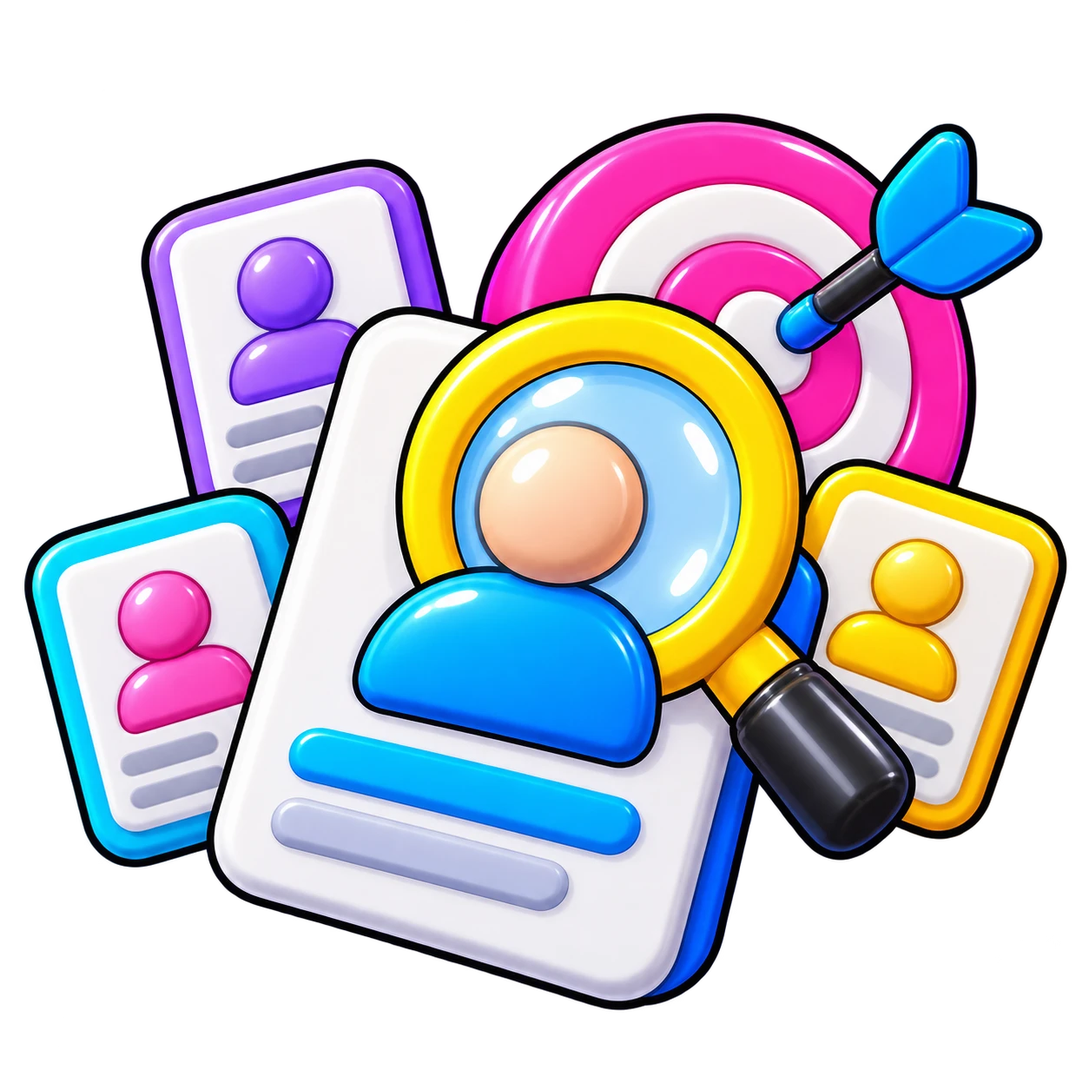
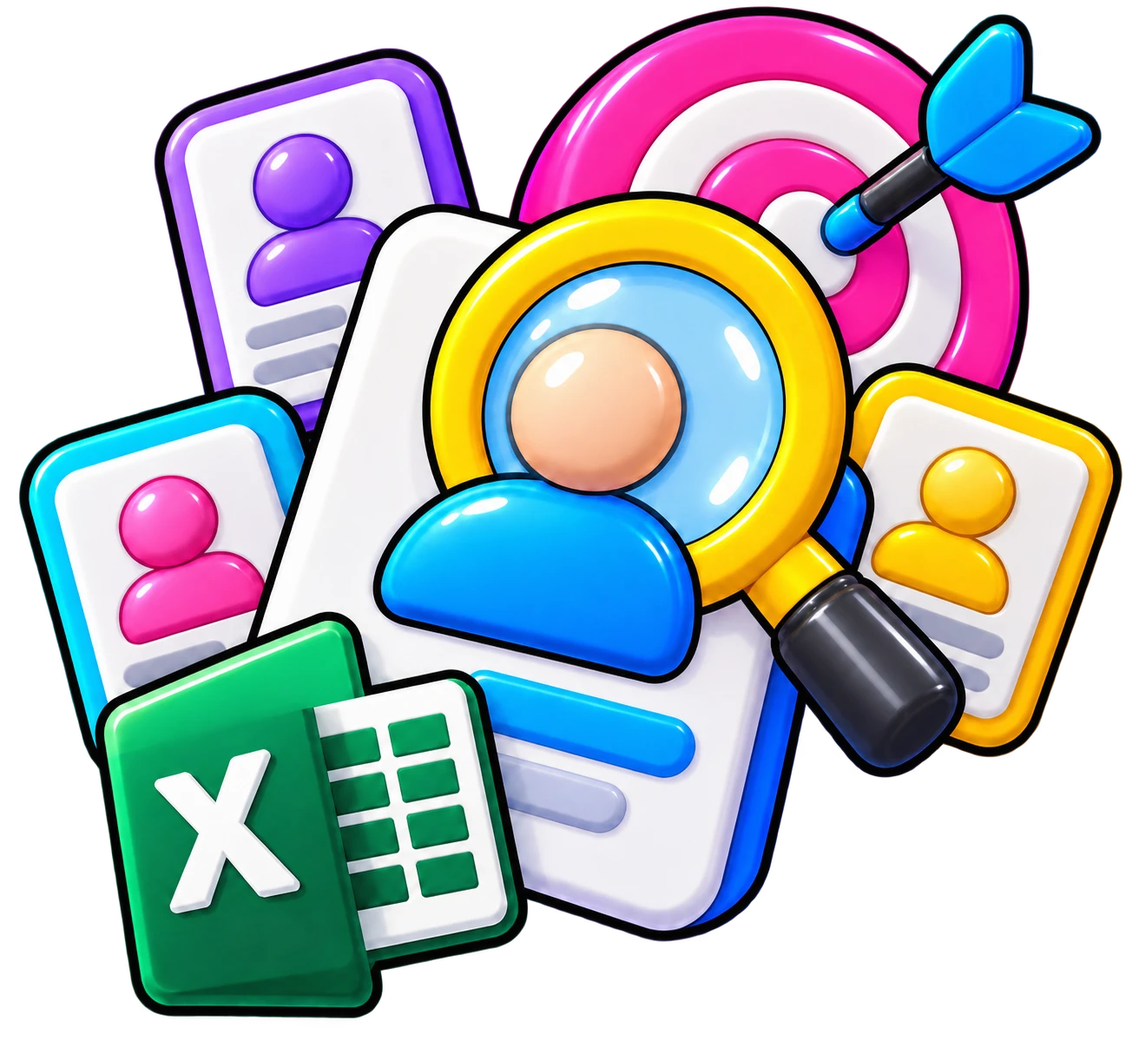
UI: multiple updates across site
- index.html: reduce services to 2 (Architecture + Outbound), update section copy, change What Clients Say pill to purple
- about.html: add hero collage photo, mobile nav CSS
- contact.html: change cyan elements to green (pill, button, progress)
- downloads.html + icp-worksheet.html: rename ICP Worksheet to Customer Finder Worksheet, replace key visual
- gtm-type-test.html: redesign landing screen (eyebrow pill, bullet chips, dimension preview card), update sub copy, remove tier pills, fix CTA font color, change Likert colors to brand pink/green, simplify results panel, add top padding to results screen

diff --git a/gtm-type-test.html b/gtm-type-test.html
@@ -106,42 +106,47 @@ body::before {
 .prog-fill { height: 100%; border-radius: 999px; background: var(--yellow); border-right: 2px solid rgba(0,0,0,.2); transition: width .45s cubic-bezier(.4,0,.2,1); }
 
 /* ── SCREEN 1: Landing ── */
-#s1 { max-width: 1080px; }
-.landing { padding-top: 90px; display: grid; grid-template-columns: 1fr 1fr; gap: 48px; align-items: center; text-align: left; max-width: 1080px; margin: 0 auto; }
-.landing-copy { display: flex; flex-direction: column; align-items: flex-start; gap: 24px; }
+#s1 { max-width: 1140px; }
+.landing { padding-top: 72px; display: grid; grid-template-columns: 1fr 1fr; gap: 56px; align-items: center; text-align: left; max-width: 1140px; margin: 0 auto; }
+.landing-copy { display: flex; flex-direction: column; align-items: flex-start; gap: 22px; }
 .landing-visual { display: flex; align-items: center; justify-content: center; }
-.landing-visual img { width: 100%; max-width: 480px; }
-@media(max-width: 760px) { .landing { grid-template-columns: 1fr; text-align: center; } .landing-copy { align-items: center; } .landing-visual { display: none; } }
+.landing-vis-wrap { position: relative; width: 100%; max-width: 500px; }
+.landing-vis-wrap img { width: 100%; display: block; }
+.dim-preview { background: #fff; border: 3px solid var(--black); border-radius: 16px; box-shadow: 5px 5px 0 var(--black); padding: 16px 18px; margin-top: -24px; position: relative; z-index: 2; }
+.dim-preview-label { font: 700 10px/1 'Archivo',sans-serif; letter-spacing: .1em; text-transform: uppercase; color: #6b7280; margin-bottom: 10px; }
+.dim-preview-chips { display: flex; flex-wrap: wrap; gap: 6px; }
+.dim-chip { display: inline-flex; align-items: center; gap: 6px; padding: 6px 12px; border: 2px solid var(--black); border-radius: 999px; font: 700 11px/1 'Archivo',sans-serif; box-shadow: 2px 2px 0 var(--black); white-space: nowrap; }
+.dim-chip-dot { width: 7px; height: 7px; border-radius: 50%; border: 1.5px solid rgba(0,0,0,.2); flex-shrink: 0; }
+@media(max-width: 760px) { .landing { grid-template-columns: 1fr; padding-top: 40px; text-align: center; gap: 36px; } .landing-copy { align-items: center; } .landing-visual { display: none; } }
 
 /* Landing headline */
+.landing-eyebrow { display: inline-flex; align-items: center; gap: 7px; background: var(--pink); color: #fff; border: 2.5px solid var(--black); border-radius: 999px; padding: 8px 18px; font: 700 11px/1 'Archivo',sans-serif; letter-spacing: .09em; text-transform: uppercase; box-shadow: 4px 4px 0 var(--black); }
+.landing-eyebrow-star { font-style: normal; font-size: 13px; }
 .landing-headline {
   font-family: 'Archivo Black', sans-serif;
   font-weight: 900;
-  font-size: clamp(36px, 5vw, 64px);
+  font-size: clamp(36px, 5vw, 62px);
   color: #fff;
   line-height: 1.0;
   letter-spacing: -.035em;
 }
 
-.landing-sub { font: 400 18px/1.6 'Archivo',sans-serif; color: rgba(255,255,255,.9); max-width: 500px; }
-.landing-sub strong { color: #fff; font-weight: 700; }
+.landing-sub { font: 400 17px/1.65 'Archivo',sans-serif; color: #fff; max-width: 490px; }
+.landing-bullets { list-style: none; display: flex; flex-direction: column; align-items: flex-start; gap: 8px; margin: 0; padding: 0; }
+.landing-bullets li { display: inline-flex; align-items: center; gap: 12px; background: rgba(255,255,255,.13); border: 1.5px solid rgba(255,255,255,.3); border-radius: 12px; padding: 12px 16px; font: 600 14px/1.4 'Archivo',sans-serif; color: #fff; }
+.landing-bullets li .b-ico { width: 24px; height: 24px; border-radius: 7px; background: var(--yellow); border: 2px solid var(--black); display: inline-flex; align-items: center; justify-content: center; font-size: 13px; flex-shrink: 0; box-shadow: 2px 2px 0 var(--black); }
 
-/* Level pills con color */
-.level-teaser { display: flex; gap: 10px; flex-wrap: wrap; justify-content: center; }
-.level-pill { display: flex; align-items: center; gap: 8px; padding: 10px 18px; border: 1.5px solid rgba(0,0,0,.35); border-radius: 999px; font: 700 14px/1 'Archivo',sans-serif; color: var(--black); }
-.level-dot { width: 10px; height: 10px; border-radius: 50%; border: 1.5px solid rgba(0,0,0,.2); flex-shrink: 0; }
-
-.btn-cta { background: var(--pink); color: var(--black); font: 700 19px/1 'Archivo',sans-serif; border: 2.5px solid var(--black); border-radius: 12px; box-shadow: 4px 4px 0 var(--black); padding: 20px 44px; cursor: pointer; transition: transform .12s, box-shadow .12s; -webkit-tap-highlight-color: transparent; display: inline-flex; align-items: center; gap: 8px; }
-.btn-cta:hover { transform: translate(-2px,-2px); box-shadow: 6px 6px 0 var(--black); }
+.btn-cta { background: var(--pink); color: var(--white); font: 800 18px/1 'Archivo Black',sans-serif; border: 2.5px solid var(--black); border-radius: 14px; box-shadow: 5px 5px 0 var(--black); padding: 20px 48px; cursor: pointer; transition: transform .12s, box-shadow .12s; -webkit-tap-highlight-color: transparent; display: inline-flex; align-items: center; gap: 10px; letter-spacing: -.01em; }
+.btn-cta:hover { transform: translate(-2px,-2px); box-shadow: 7px 7px 0 var(--black); }
 .btn-cta:active { transform: translate(2px,2px); box-shadow: 2px 2px 0 var(--black); }
 
-/* Trust signals as white pills — legibles, on-brand */
-.landing-meta { display: flex; flex-wrap: wrap; justify-content: center; gap: 10px; }
+/* Trust signals — white cards */
+.landing-meta { display: flex; flex-wrap: wrap; gap: 8px; }
 .landing-meta-item {
-  display: inline-flex; align-items: center; gap: 6px;
-  background: rgba(255,255,255,.15); border: 1px solid rgba(255,255,255,.4);
-  border-radius: 999px;
-  padding: 10px 18px; font: 700 14px/1 'Archivo',sans-serif; color: #fff;
+  display: inline-flex; align-items: center; gap: 7px;
+  background: var(--white); border: 2px solid var(--black);
+  border-radius: 999px; box-shadow: 3px 3px 0 var(--black);
+  padding: 9px 16px; font: 700 13px/1 'Archivo',sans-serif; color: var(--black);
 }
 
 /* ── SCREENS 2–6 ── */
@@ -189,7 +194,7 @@ body::before {
 
 .likert-extremes { display: flex; justify-content: space-between; padding: 2px 2px 0; }
 .likert-extremes span { font: 700 12px/1 'Archivo',sans-serif; letter-spacing: .02em; }
-.likert-extremes span:first-child { color: #ef4444; }
+.likert-extremes span:first-child { color: #FB4AAD; }
 .likert-extremes span:last-child  { color: #00CC7A; }
 
 /* Opción N/A */
@@ -235,7 +240,7 @@ body::before {
 .contact-note { font: 400 11px/1.4 'Archivo',sans-serif; color: #9ca3af; margin-top: 12px; text-align: center; }
 
 /* ── SCREEN 8: Results ── */
-#s8 { max-width: 960px; }
+#s8 { max-width: 960px; padding-top: 48px; }
 .results-headline {
   font-family: 'Archivo Black', sans-serif;
   font-weight: 900;
@@ -271,7 +276,8 @@ body::before {
 .locked-list { list-style: none; display: flex; flex-direction: column; gap: 8px; margin-bottom: 20px; }
 .locked-list li { display: flex; align-items: center; gap: 9px; font: 400 13px/1.4 'Archivo',sans-serif; padding: 9px 11px; background: rgba(255,255,255,.06); border-radius: 8px; transition: background .3s; color: rgba(255,255,255,.7); }
 .locked-list li.unlocked { background: rgba(0,204,122,.1); color: rgba(255,255,255,.9); }
-.report-sent-box { background: rgba(0,204,122,.12); border: 1.5px solid #00CC7A; border-radius: 10px; padding: 12px; margin-bottom: 14px; font: 400 12px/1.5 'Archivo',sans-serif; color: #00CC7A; display: none; }
+.report-sent-box { background: rgba(0,204,122,.12); border: 1.5px solid #00CC7A; border-radius: 10px; padding: 16px; margin-bottom: 18px; font: 400 14px/1.6 'Archivo',sans-serif; color: #00CC7A; display: none; }
+.report-sent-box strong { color: #fff; font-weight: 700; }
 .btn-calendly { display: flex; align-items: center; justify-content: center; gap: 8px; width: 100%; padding: 16px 18px; background: var(--yellow); color: var(--black); font: 700 14px/1.3 'Archivo',sans-serif; border: 2.5px solid rgba(255,255,255,.15); border-radius: 10px; box-shadow: 3px 3px 0 rgba(255,255,255,.12); text-decoration: none; cursor: pointer; transition: transform .12s, box-shadow .12s; -webkit-tap-highlight-color: transparent; text-align: center; }
 .btn-calendly:hover { transform: translate(-1px,-1px); box-shadow: 4px 4px 0 rgba(255,255,255,.2); }
 
@@ -328,23 +334,36 @@ body::before {
 <div id="s1" class="screen is-active">
   <div class="landing">
     <div class="landing-copy">
+      <span class="landing-eyebrow"><em class="landing-eyebrow-star">✦</em> Revenue Tech Maturity Test</span>
       <h1 class="landing-headline">How modern is your GTM tech stack?</h1>
-      <p class="landing-sub">Find gaps in your GTM stack that might be hurting your revenue by taking this test.</p>
-      <div class="level-teaser">
-        <div class="level-pill" style="background:#e5e7eb"><span class="level-dot" style="background:#9ca3af"></span>GTM Rookie</div>
-        <div class="level-pill" style="background:#12EFFB"><span class="level-dot" style="background:#0aa8b5"></span>GTM Player</div>
-        <div class="level-pill" style="background:#00CC7A"><span class="level-dot" style="background:#009959"></span>GTM Pro</div>
-        <div class="level-pill" style="background:#FCDF07"><span class="level-dot" style="background:#d4b800"></span>GTM Elite</div>
-      </div>
+      <p class="landing-sub">This isn't a quiz about what tools you use. It's a diagnostic that measures how well your revenue architecture, outbound, analytics, automation, and team alignment actually work together.</p>
+      <ul class="landing-bullets">
+        <li><span class="b-ico">📊</span>A score per dimension</li>
+        <li><span class="b-ico">🎯</span>Your 3 highest-leverage gaps</li>
+        <li><span class="b-ico">📬</span>A prioritized action plan sent to your inbox</li>
+      </ul>
       <button type="button" class="btn-cta" id="startBtn">Take the Test →</button>
       <div class="landing-meta">
         <span class="landing-meta-item">⏱ 4 minutes</span>
         <span class="landing-meta-item">🔒 No spam</span>
         <span class="landing-meta-item">✉ Results by email</span>
+        <span class="landing-meta-item">🆓 Free</span>
       </div>
     </div>
     <div class="landing-visual">
-      <img src="images/gtm-type-test-hero.webp" alt="GTM Tech Stack Assessment">
+      <div class="landing-vis-wrap">
+        <img src="images/gtm-type-test-hero.webp" alt="GTM Tech Stack Assessment">
+        <div class="dim-preview">
+          <p class="dim-preview-label">5 dimensions scored</p>
+          <div class="dim-preview-chips">
+            <span class="dim-chip" style="background:#FB4AAD;color:#000"><span class="dim-chip-dot" style="background:#c4006a"></span>Revenue Architecture</span>
+            <span class="dim-chip" style="background:#12EFFB;color:#000"><span class="dim-chip-dot" style="background:#0aa8b5"></span>Modern Outbound</span>
+            <span class="dim-chip" style="background:#FCDF07;color:#000"><span class="dim-chip-dot" style="background:#d4b800"></span>Digital Analytics</span>
+            <span class="dim-chip" style="background:#A040F0;color:#fff"><span class="dim-chip-dot" style="background:#6010b8;border-color:rgba(255,255,255,.3)"></span>AI &amp; Automation</span>
+            <span class="dim-chip" style="background:#00CC7A;color:#000"><span class="dim-chip-dot" style="background:#008f56"></span>GTM Alignment</span>
+          </div>
+        </div>
+      </div>
     </div>
   </div>
 </div>
@@ -439,14 +458,7 @@ body::before {
       </div>
     </div>
     <div class="locked-panel">
-      <p class="locked-heading">Your Full GTM Report</p>
-      <ul class="locked-list" id="lockedList">
-        <li>🔒 Your 3 biggest GTM gaps</li>
-        <li>🔒 What they're likely costing you</li>
-        <li>🔒 Downloadable PDF report</li>
-        <li>🔒 Priority recommendations</li>
-      </ul>
-      <div id="reportSent" class="report-sent-box"></div>
+      <div id="reportSent" class="report-sent-box" style="display:none"></div>
       <a href="https://calendly.com/YOUR_LINK" target="_blank" rel="noopener" class="btn-calendly" id="calendlyBtn">📅 Book a free 30-min GTM call</a>
     </div>
   </div>
@@ -516,8 +528,8 @@ body::before {
   ];
 
   var LIKERT_LABELS  = ["SD", "D", "A", "SA"];
-  /* Escala de colores: rojo → naranja → verde claro → verde */
-  var LIKERT_COLORS  = ["#ef4444", "#f97316", "#86efac", "#00CC7A"];
+  /* Escala de colores: pink fuerte → pink claro → verde claro → verde */
+  var LIKERT_COLORS  = ["#FB4AAD", "#FCA8D8", "#6DEAB5", "#00CC7A"];
 
   var LEVEL_INFO = {
     "GTM Rookie": { emoji: "🌱", color: "#e5e7eb", desc: "Your GTM tech stack is still at an early stage. Most of what works depends on specific people doing the right thing at the right time. Without systems in place, you’re likely losing pipeline without knowing it — and scaling right now would amplify the chaos, not the results. The first move: build the foundation before you build the machine." },
@@ -706,17 +718,35 @@ body::before {
     goTo(8);
 
     var sorted = result.dimensions.slice().sort(function (a, b) { return a.raw - b.raw; });
+    var answersDetail = [];
+    DIMS.forEach(function (dim, di) {
+      dim.qs.forEach(function (q, qi) {
+        var val = answers[di * 5 + qi];
+        answersDetail.push({
+          dimension: dim.name,
+          question_index: di * 5 + qi + 1,
+          question: q,
+          answer_value: val,
+          answer_label: val === 1 ? "Strongly Disagree" : val === 2 ? "Disagree" : val === 3 ? "Agree" : val === 4 ? "Strongly Agree" : "N/A"
+        });
+      });
+    });
     fetch("YOUR_N8N_WEBHOOK_URL", {
       method: "POST", headers: { "Content-Type": "application/json" },
       body: JSON.stringify({
         name: name, email: email, company: company, role: role,
         timestamp: new Date().toISOString(), source: "gtm-type-test",
         overall_level: result.overall, total_score: result.total,
-        dimensions: result.dimensions,
-        top_gaps: sorted.slice(0, 3).map(function (g) {
-          return { dimension: g.dimension, level: g.level, gap_text: GAP_TEXTS[g.dimension] || "" };
+        dimensions: result.dimensions.map(function (d) {
+          return {
+            dimension: d.dimension, raw: d.raw, pct: d.pct, level: d.level,
+            label: (DIM_LABELS[d.dimension] || {})[d.level] || ""
+          };
         }),
-        answers: answers
+        top_gaps: sorted.slice(0, 3).map(function (g) {
+          return { dimension: g.dimension, level: g.level, pct: g.pct, gap_text: GAP_TEXTS[g.dimension] || "" };
+        }),
+        answers_detail: answersDetail
       })
     }).catch(function () {});
   });
@@ -749,14 +779,9 @@ body::before {
       });
     }, 150);
 
-    var items = ["Your 3 biggest GTM gaps", "What they’re likely costing you", "Downloadable PDF report", "Priority recommendations"];
-    document.getElementById("lockedList").innerHTML = items.map(function (t, i) {
-      return '<li class="unlocked" style="transition-delay:' + (i * 120) + 'ms">✅ ' + t + '</li>';
-    }).join("");
-
     var sent = document.getElementById("reportSent");
     sent.style.display = "block";
-    sent.textContent = "Your full report is on its way to " + email + ".";
+    sent.innerHTML = "✅ Your results are on their way to <strong>" + esc(email) + "</strong>. Check your inbox in the next few minutes.";
 
     document.getElementById("calendlyBtn").textContent = "📅 " + (CALENDLY_COPY[result.overall] || "Book a free 30-min GTM call");
   }

diff --git a/index.html b/index.html
@@ -429,7 +429,7 @@ height="0" width="0" style="display:none;visibility:hidden"></iframe></noscript>
 <div class="testi-section" data-grid-parallax>
   <div class="reveal">
     <div class="section-head">
-      <span class="eyebrow-pill" style="background:var(--nx-cyan);margin-bottom:28px">
+      <span class="eyebrow-pill" style="background:var(--nx-purple);color:#fff;margin-bottom:28px">
         <svg width="11" height="11" viewBox="0 0 24 24" fill="currentColor" aria-hidden="true"><path d="M12 2l2.2 6.8L21 11l-6.8 2.2L12 20l-2.2-6.8L3 11l6.8-2.2z"/></svg><span data-i18n="testi_eyebrow">WHAT CLIENTS SAY</span>
       </span>
       <h2 data-i18n="testi_h2">Teams that fixed their GTM system with us.</h2>
@@ -444,8 +444,8 @@ height="0" width="0" style="display:none;visibility:hidden"></iframe></noscript>
       <span class="eyebrow-pill" style="background:var(--nx-purple);margin-bottom:18px">
         <svg width="11" height="11" viewBox="0 0 24 24" fill="currentColor" aria-hidden="true"><path d="M12 2l2.2 6.8L21 11l-6.8 2.2L12 20l-2.2-6.8L3 11l6.8-2.2z"/></svg><span data-i18n="services_eyebrow">PICK YOUR BIGGEST PROBLEM</span>
       </span>
-      <h2 data-i18n="services_h2">Five ways we fix your revenue system.</h2>
-      <p data-i18n="services_p">Each program has three tiers depending on how deep you want to go. Not sure where to start? GTM Total Glowap is the answer.</p>
+      <h2 data-i18n="services_h2">Two ways we fix your revenue system.</h2>
+      <p data-i18n="services_p">Each program has three tiers depending on how deep you want to go.</p>
     </div>
     <div class="services-grid" id="servicesGrid"></div>
   </div>
@@ -576,8 +576,8 @@ const COPY = {
     testi_coming_p: "Muvap is taking on its first engagements right now. Want to be the first case study featured here?",
     testi_coming_cta: 'Work with us',
     services_eyebrow: 'PICK YOUR BIGGEST PROBLEM',
-    services_h2: 'Five ways we fix your revenue system.',
-    services_p: "Each program has three tiers depending on how deep you want to go. Not sure where to start? GTM Total Glowap is the answer.",
+    services_h2: 'Two ways we fix your revenue system.',
+    services_p: "Each program has three tiers depending on how deep you want to go.",
     services_explore: 'Explore program →',
     cta_eyebrow: 'BOOK A CALL',
     cta_h2: "Ready to stop losing deals to a broken process?",
@@ -641,8 +641,8 @@ const COPY = {
     testi_coming_p: 'Muvap está tomando sus primeros proyectos ahora mismo. ¿Quieres ser el primer caso de estudio destacado aquí?',
     testi_coming_cta: 'Trabajemos juntos',
     services_eyebrow: 'ELIGE TU PROBLEMA MÁS GRANDE',
-    services_h2: 'Cinco formas de arreglar tu sistema de revenue.',
-    services_p: 'Cada programa tiene tres niveles según qué tan profundo quieras ir. ¿No sabes por dónde empezar? GTM Total Glowap es la respuesta.',
+    services_h2: 'Dos formas de arreglar tu sistema de revenue.',
+    services_p: 'Cada programa tiene tres niveles según qué tan profundo quieras ir.',
     services_explore: 'Explorar programa →',
     cta_eyebrow: 'AGENDAR LLAMADA',
     cta_h2: '¿Listo para dejar de perder deals por un proceso roto?',
@@ -735,9 +735,6 @@ const PROCESS_TONES = [
 const SERVICES = [
   { name: 'GTM Architecture Evolution', tag: 'Program 1', color: 'var(--nx-ink)', pale: 'var(--nx-paper-dim)', text: 'var(--nx-paper)', href: 'gtm-architecture-evolution.html' },
   { name: 'GTM Outbound Evolution', tag: 'Program 2', color: 'var(--nx-mint)', pale: 'var(--nx-mint-pale)', href: 'gtm-outbound-evolution.html' },
-  { name: 'GTM Intelligence Evolution', tag: 'Program 3', color: 'var(--nx-purple)', pale: 'var(--nx-purple-pale)', href: 'gtm-intelligence-evolution.html' },
-  { name: 'GTM Workforce Evolution', tag: 'Program 4', color: 'var(--nx-yellow)', pale: 'var(--nx-yellow-pale)', href: 'gtm-workforce-evolution.html' },
-  { name: 'GTM Total Glowap!', tag: 'Program 5', color: 'var(--nx-pink)', pale: 'var(--nx-pink-pale)', href: 'gtm-total-glowap.html' },
 ];
 
 const MARTECH_CATEGORIES = MARTECH_TOOLS; // alias kept for compat

diff --git a/contact.html b/contact.html
@@ -148,7 +148,7 @@ j=d.createElement(s),dl=l!='dataLayer'?'&l='+l:'';j.async=true;j.src=
   .form-card{background:var(--nx-paper);border:1.5px solid var(--nx-ink);border-radius:var(--nx-radius-xl);box-shadow:var(--nx-drop-lg);padding:32px;min-height:380px;display:flex;flex-direction:column}
   .form-dots{display:flex;gap:8px;margin-bottom:26px}
   .form-dot{flex:1;height:5px;border-radius:3px;background:var(--nx-paper-dim);transition:background .25s ease}
-  .form-dot.is-done{background:var(--nx-cyan)}
+  .form-dot.is-done{background:var(--nx-green)}
   .form-step{flex:1;display:none}
   .form-step.is-active{display:block}
   .form-step-label{display:block;margin:0 0 18px;font:800 12px/1 var(--nx-font-display);letter-spacing:var(--nx-track-label);color:var(--nx-ink-soft);text-transform:uppercase}
@@ -161,7 +161,7 @@ j=d.createElement(s),dl=l!='dataLayer'?'&l='+l:'';j.async=true;j.src=
   .form-nav{display:flex;align-items:center;justify-content:space-between;margin-top:8px}
   .form-back{width:44px;height:44px;display:inline-flex;align-items:center;justify-content:center;background:var(--nx-paper);border:3px solid var(--nx-ink);border-radius:14px;visibility:hidden}
   .form-back.show{visibility:visible}
-  .form-next{background:var(--nx-cyan);color:var(--nx-ink);border-radius:var(--nx-radius-sm);padding:13px 26px;font:800 14px/1 var(--nx-font-display);box-shadow:var(--nx-drop-sm)}
+  .form-next{background:var(--nx-green);color:var(--nx-ink);border-radius:var(--nx-radius-sm);padding:13px 26px;font:800 14px/1 var(--nx-font-display);box-shadow:var(--nx-drop-sm)}
   .form-done{display:none;flex:1;flex-direction:column;align-items:flex-start;justify-content:center;gap:10px}
   .form-done.show{display:flex}
   .form-done h3{margin:0;color:var(--nx-ink);font:900 24px/1.1 var(--nx-font-display)}
@@ -245,7 +245,7 @@ height="0" width="0" style="display:none;visibility:hidden"></iframe></noscript>
   <script>(function(){var b=document.querySelector(".nav-burger"),n=document.querySelector(".site-nav");if(!b||!n)return;function close(){n.classList.remove("nav-open");b.setAttribute("aria-expanded","false");b.textContent="☰"}b.addEventListener("click",function(e){e.stopPropagation();var open=n.classList.toggle("nav-open");b.setAttribute("aria-expanded",open?"true":"false");b.textContent=open?"✕":"☰"});document.addEventListener("click",function(e){if(!n.contains(e.target))close()})})();</script>
 
   <div class="contact-hero">
-    <span class="eyebrow-pill" style="background:var(--nx-cyan)">
+    <span class="eyebrow-pill" style="background:var(--nx-green)">
       <svg width="11" height="11" viewBox="0 0 24 24" fill="currentColor" aria-hidden="true"><path d="M12 2l2.2 6.8L21 11l-6.8 2.2L12 20l-2.2-6.8L3 11l6.8-2.2z"/></svg><span data-i18n="contact_eyebrow">CONTACT</span>
     </span>
     <h1 data-i18n="contact_h1">Let's talk about your GTM system.</h1>
@@ -262,7 +262,7 @@ height="0" width="0" style="display:none;visibility:hidden"></iframe></noscript>
         <span class="steps-label" data-i18n="steps_label">What happens next</span>
         <div class="next-steps">
           <div class="next-step"><span class="next-step-num" style="background:var(--nx-mint)">1</span><span data-i18n="step_1">We read what you send: no forwarding to a generic inbox.</span></div>
-          <div class="next-step"><span class="next-step-num" style="background:var(--nx-cyan)">2</span><span data-i18n="step_2">You get a reply within one business day, with a real answer or a next step.</span></div>
+          <div class="next-step"><span class="next-step-num" style="background:var(--nx-green)">2</span><span data-i18n="step_2">You get a reply within one business day, with a real answer or a next step.</span></div>
           <div class="next-step"><span class="next-step-num" style="background:var(--nx-pink)">3</span><span data-i18n="step_3">If it's a fit, we book a 30-minute call. If it's not, we'll tell you that too.</span></div>
         </div>
       </div>

diff --git a/icp-worksheet.html b/icp-worksheet.html
@@ -4,11 +4,11 @@
 <meta charset="UTF-8">
 <script>(function(w,d,s,l,i){w[l]=w[l]||[];w[l].push({'gtm.start':new Date().getTime(),event:'gtm.js'});var f=d.getElementsByTagName(s)[0],j=d.createElement(s),dl=l!='dataLayer'?'&l='+l:'';j.async=true;j.src='https://www.googletagmanager.com/gtm.js?id='+i+dl;f.parentNode.insertBefore(j,f)})(window,document,'script','dataLayer','GTM-5GWJM2P9');</script>
 <meta name="viewport" content="width=device-width, initial-scale=1.0">
-<title>ICP Worksheet · Free Excel Download · Muvap</title>
-<meta name="description" content="27 pre-built CRM fields. Auto-generated ICP statement. Free Excel download for B2B revenue teams that are tired of qualifying on gut feeling.">
+<title>Customer Finder Worksheet · Free Excel Download · Muvap</title>
+<meta name="description" content="27 pre-built CRM fields. Auto-generated customer profile statement. Free Excel download for B2B revenue teams that are tired of qualifying on gut feeling.">
 <link rel="canonical" href="https://davidbervic.com/icp-worksheet.html">
 <meta property="og:type" content="website">
-<meta property="og:title" content="ICP Worksheet · Free Excel Download · Muvap">
+<meta property="og:title" content="Customer Finder Worksheet · Free Excel Download · Muvap">
 <meta property="og:description" content="27 pre-built CRM fields. Auto-generated ICP statement. Free Excel download.">
 <meta property="og:url" content="https://davidbervic.com/icp-worksheet.html">
 <meta property="og:image" content="https://davidbervic.com/images/dl-icp-worksheet.webp">
@@ -166,7 +166,7 @@
   </nav>
   <header class="sv-hero">
     <div class="sv-hero-copy">
-      <span class="eyebrow-pill" style="background:var(--acc)"><svg width="11" height="11" viewBox="0 0 24 24" fill="currentColor" aria-hidden="true"><path d="M12 2l2.2 6.8L21 11l-6.8 2.2L12 20l-2.2-6.8L3 11l6.8-2.2z"/></svg>ICP WORKSHEET · FREE DOWNLOAD</span>
+      <span class="eyebrow-pill" style="background:var(--acc)"><svg width="11" height="11" viewBox="0 0 24 24" fill="currentColor" aria-hidden="true"><path d="M12 2l2.2 6.8L21 11l-6.8 2.2L12 20l-2.2-6.8L3 11l6.8-2.2z"/></svg>CUSTOMER FINDER WORKSHEET · FREE DOWNLOAD</span>
       <h1 style="color:var(--nx-paper);font:900 clamp(34px,4.8vw,58px)/1.04 var(--nx-font-display);letter-spacing:var(--nx-track-display)"> Stop Chasing the wrong Customer with the Ideal Customer Finder Worksheet</h1>
       <p class="sv-hero-sub">Define your ideal customer profile with a practical, step-by-step worksheet built to help you sharpen targeting, prioritize better-fit accounts, and align your GTM efforts.</p>
       <form class="hero-form" id="heroForm" novalidate>
@@ -178,7 +178,7 @@
       <a class="sv-link" href="#whats-inside" style="margin-top:4px;display:inline-block">See what's inside →</a>
     </div>
     <aside class="sv-hero-visual">
-      <img src="images/dl-icp-worksheet.webp" alt="ICP Worksheet Excel preview" style="width:100%;max-width:480px;display:block;margin:0 auto">
+      <img src="images/dl-icp-worksheet.webp" alt="Customer Finder Worksheet Excel preview" style="width:100%;max-width:480px;display:block;margin:0 auto">
     </aside>
   </header>
 </div>
@@ -251,7 +251,7 @@
 
         <!-- Panel 04 -->
         <div class="sv-scen-panel" data-panel="3">
-          <img src="images/icp-scen-04-worksheet.webp" alt="ICP Worksheet full view" style="width:100%;border-radius:12px">
+          <img src="images/icp-scen-04-worksheet.webp" alt="Customer Finder Worksheet full view" style="width:100%;border-radius:12px">
         </div>
 
       </div>
@@ -385,7 +385,7 @@
     return show;
   }
   function triggerDownload(){
-    var a=document.createElement('a');a.href=DOWNLOAD_URL;a.download='Muvap_ICP_Worksheet.xlsx';
+    var a=document.createElement('a');a.href=DOWNLOAD_URL;a.download='Muvap_Customer_Finder_Worksheet.xlsx';
     document.body.appendChild(a);a.click();document.body.removeChild(a);
   }
 

diff --git a/downloads.html b/downloads.html
@@ -222,11 +222,11 @@ height="0" width="0" style="display:none;visibility:hidden"></iframe></noscript>
 
       <a href="icp-worksheet.html" class="dl-card" style="text-decoration:none">
         <div class="dl-card-visual" style="background:#f0f8ff;display:flex;align-items:center;justify-content:center;border-bottom:1.5px solid var(--nx-ink);padding:24px">
-          <img src="images/dl-icp-worksheet.webp" alt="ICP Worksheet" style="width:100%;max-width:180px;height:auto;display:block">
+          <img src="images/dl-icp-worksheet.webp" alt="Customer Finder Worksheet" style="width:100%;max-width:180px;height:auto;display:block">
         </div>
         <div class="dl-card-body">
           <span class="format-tag">Spreadsheet</span>
-          <h3>ICP Worksheet</h3>
+          <h3>Customer Finder Worksheet</h3>
           <p>Stop guessing who your best customers are. One hour with this worksheet and you'll know exactly who to target, why they buy, and how to find more of them.</p>
           <span class="dl-get-btn" style="background:var(--nx-mint)">Get it free</span>
         </div>

diff --git a/about.html b/about.html
@@ -305,7 +305,7 @@ height="0" width="0" style="display:none;visibility:hidden"></iframe></noscript>
 
   <div class="about-hero-grid">
     <div class="about-hero-photo" style="display:flex;align-items:center;justify-content:center">
-      <img src="images/about-hero-photo.png" alt="David Berrocal with the teams at MEDLIFE and CloudTask" style="width:100%;height:100%;object-fit:contain;display:block">
+      <img src="images/about-hero-photo.webp" alt="David Berrocal with the teams at MEDLIFE and CloudTask" style="width:100%;height:100%;object-fit:contain;display:block">
     </div>
     <div class="about-hero-copy">
       <span class="eyebrow-pill" style="background:var(--nx-mint)">
